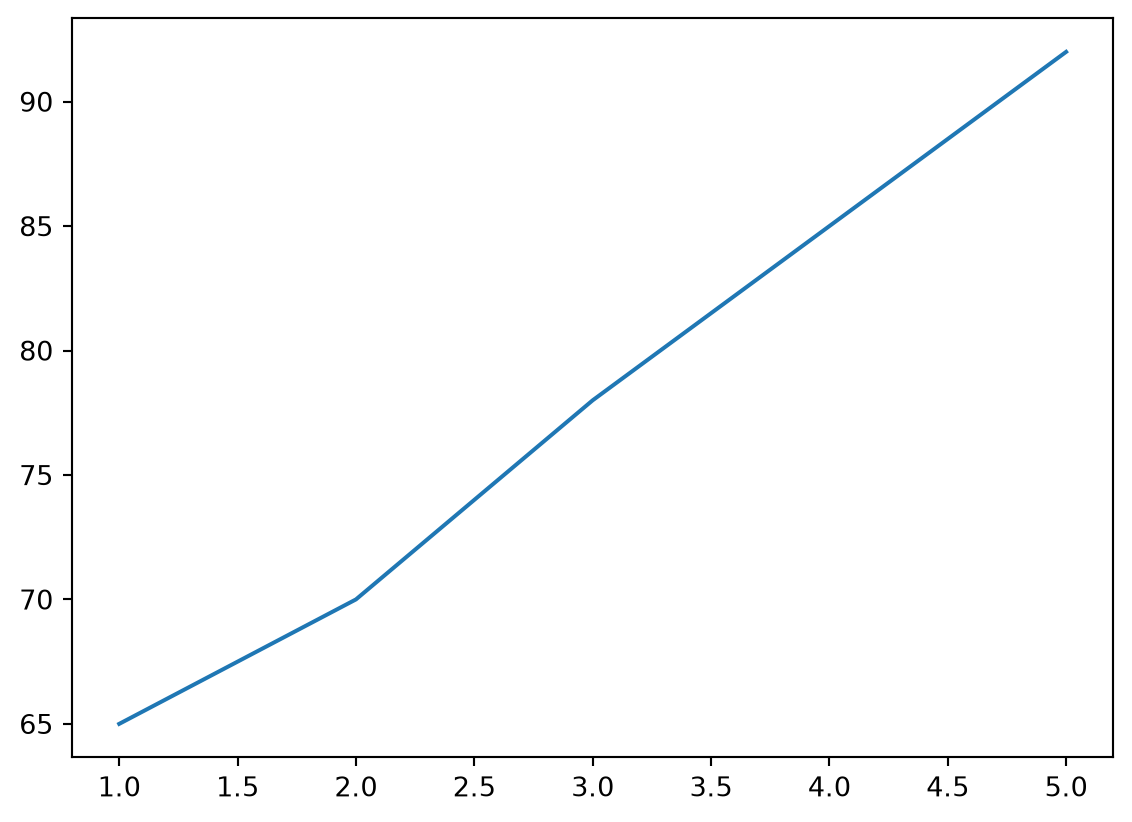
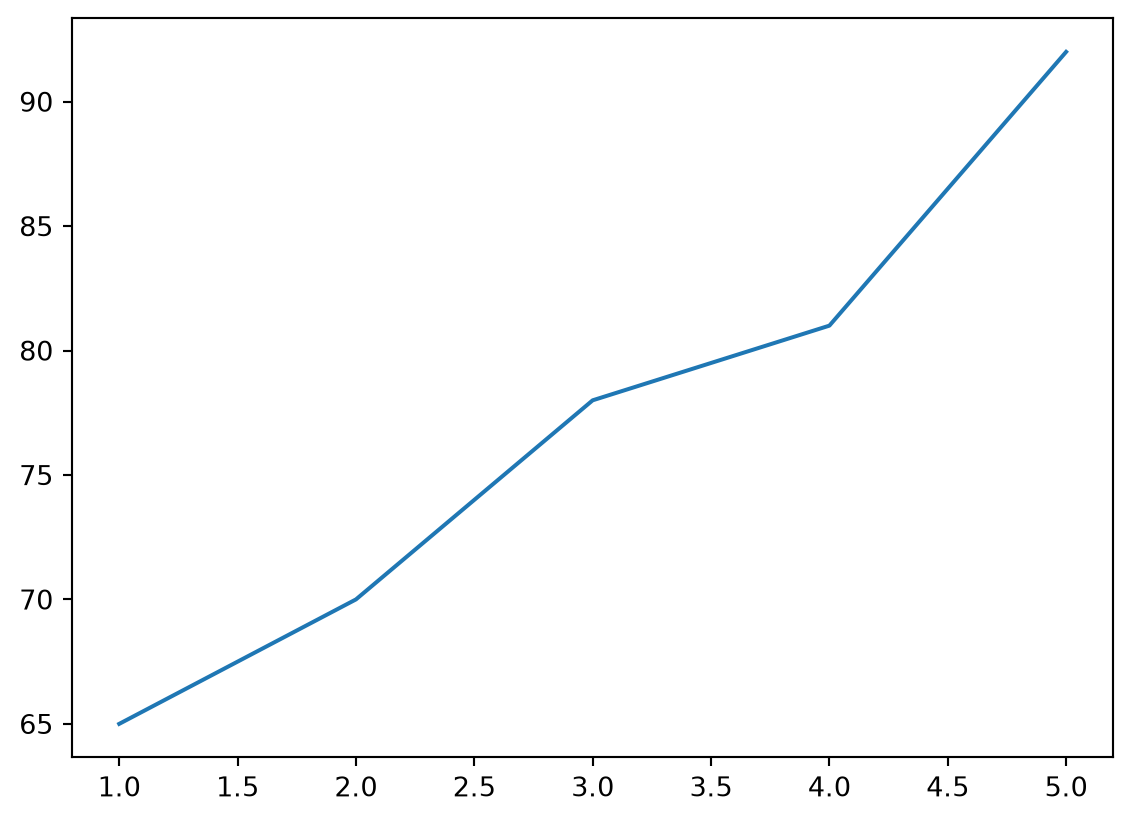
fixed errors in website set up

diff --git a/docs/posts/matplotlib-tutorial.html b/docs/posts/matplotlib-tutorial.html
@@ -213,12 +213,12 @@ pre > code.sourceCode > span > a:first-child::before { text-decoration: underlin
 <li>Customize the appearance of the plot.</li>
 <li>Display the figure using plt.show().</li>
 </ol>
-<div id="1706c89c" class="cell" data-execution_count="1">
+<div id="cedb077f" class="cell" data-execution_count="1">
 <div class="code-copy-outer-scaffold"><div class="sourceCode cell-code" id="cb1"><pre class="sourceCode python code-with-copy"><code class="sourceCode python"><span id="cb1-1"><a href="#cb1-1" aria-hidden="true" tabindex="-1"></a><span class="im">import</span> matplotlib.pyplot <span class="im">as</span> plt</span>
 <span id="cb1-2"><a href="#cb1-2" aria-hidden="true" tabindex="-1"></a></span>
 <span id="cb1-3"><a href="#cb1-3" aria-hidden="true" tabindex="-1"></a><span class="co"># Example data: hours studied and quiz scores</span></span>
 <span id="cb1-4"><a href="#cb1-4" aria-hidden="true" tabindex="-1"></a>hours <span class="op">=</span> [<span class="dv">1</span>, <span class="dv">2</span>, <span class="dv">3</span>, <span class="dv">4</span>, <span class="dv">5</span>]</span>
-<span id="cb1-5"><a href="#cb1-5" aria-hidden="true" tabindex="-1"></a>scores <span class="op">=</span> [<span class="dv">65</span>, <span class="dv">70</span>, <span class="dv">78</span>, <span class="dv">85</span>, <span class="dv">92</span>]</span>
+<span id="cb1-5"><a href="#cb1-5" aria-hidden="true" tabindex="-1"></a>scores <span class="op">=</span> [<span class="dv">65</span>, <span class="dv">70</span>, <span class="dv">78</span>, <span class="dv">81</span>, <span class="dv">92</span>]</span>
 <span id="cb1-6"><a href="#cb1-6" aria-hidden="true" tabindex="-1"></a></span>
 <span id="cb1-7"><a href="#cb1-7" aria-hidden="true" tabindex="-1"></a><span class="co"># Create a basic line plot</span></span>
 <span id="cb1-8"><a href="#cb1-8" aria-hidden="true" tabindex="-1"></a>plt.plot(hours, scores)</span>
@@ -258,7 +258,7 @@ pre > code.sourceCode > span > a:first-child::before { text-decoration: underlin
 <li>Heatmaps (often created with Matplotlib alongside NumPy)</li>
 </ul>
 <p>The best plot depends on the question you are trying to answer and the data you have available.</p>
-<div id="c6b7c3c4" class="cell" data-execution_count="2">
+<div id="27dd8f62" class="cell" data-execution_count="2">
 <div class="code-copy-outer-scaffold"><div class="sourceCode cell-code" id="cb2"><pre class="sourceCode python code-with-copy"><code class="sourceCode python"><span id="cb2-1"><a href="#cb2-1" aria-hidden="true" tabindex="-1"></a><span class="im">import</span> matplotlib.pyplot <span class="im">as</span> plt</span>
 <span id="cb2-2"><a href="#cb2-2" aria-hidden="true" tabindex="-1"></a></span>
 <span id="cb2-3"><a href="#cb2-3" aria-hidden="true" tabindex="-1"></a><span class="co"># -------------------------</span></span>
@@ -267,48 +267,14 @@ pre > code.sourceCode > span > a:first-child::before { text-decoration: underlin
 <span id="cb2-6"><a href="#cb2-6" aria-hidden="true" tabindex="-1"></a><span class="co"># Use a scatter plot when you want to see the relationship</span></span>
 <span id="cb2-7"><a href="#cb2-7" aria-hidden="true" tabindex="-1"></a><span class="co"># between two numerical variables.</span></span>
 <span id="cb2-8"><a href="#cb2-8" aria-hidden="true" tabindex="-1"></a></span>
-<span id="cb2-9"><a href="#cb2-9" aria-hidden="true" tabindex="-1"></a>study_hours <span class="op">=</span> [<span class="dv">1</span>, <span class="dv">2</span>, <span class="dv">3</span>, <span class="dv">4</span>, <span class="dv">5</span>, <span class="dv">6</span>, <span class="dv">7</span>]</span>
-<span id="cb2-10"><a href="#cb2-10" aria-hidden="true" tabindex="-1"></a>exam_scores <span class="op">=</span> [<span class="dv">62</span>, <span class="dv">68</span>, <span class="dv">74</span>, <span class="dv">80</span>, <span class="dv">85</span>, <span class="dv">89</span>, <span class="dv">94</span>]</span>
+<span id="cb2-9"><a href="#cb2-9" aria-hidden="true" tabindex="-1"></a>study_hours <span class="op">=</span> [<span class="dv">1</span>, <span class="dv">1</span>, <span class="dv">2</span>, <span class="dv">2</span>, <span class="dv">2</span>, <span class="dv">3</span>, <span class="dv">4</span>, <span class="dv">4</span>, <span class="dv">5</span>, <span class="dv">6</span>, <span class="dv">7</span>]</span>
+<span id="cb2-10"><a href="#cb2-10" aria-hidden="true" tabindex="-1"></a>exam_scores <span class="op">=</span> [<span class="dv">62</span>, <span class="dv">70</span>, <span class="dv">68</span>, <span class="dv">74</span>, <span class="dv">84</span>, <span class="dv">80</span>, <span class="dv">85</span>, <span class="dv">89</span>, <span class="dv">79</span>, <span class="dv">94</span>, <span class="dv">91</span>]</span>
 <span id="cb2-11"><a href="#cb2-11" aria-hidden="true" tabindex="-1"></a></span>
 <span id="cb2-12"><a href="#cb2-12" aria-hidden="true" tabindex="-1"></a>plt.scatter(study_hours, exam_scores)</span>
 <span id="cb2-13"><a href="#cb2-13" aria-hidden="true" tabindex="-1"></a>plt.title(<span class="st">"Study Hours vs. Exam Scores"</span>)</span>
 <span id="cb2-14"><a href="#cb2-14" aria-hidden="true" tabindex="-1"></a>plt.xlabel(<span class="st">"Hours Studied"</span>)</span>
 <span id="cb2-15"><a href="#cb2-15" aria-hidden="true" tabindex="-1"></a>plt.ylabel(<span class="st">"Exam Score"</span>)</span>
-<span id="cb2-16"><a href="#cb2-16" aria-hidden="true" tabindex="-1"></a>plt.show()</span>
-<span id="cb2-17"><a href="#cb2-17" aria-hidden="true" tabindex="-1"></a></span>
-<span id="cb2-18"><a href="#cb2-18" aria-hidden="true" tabindex="-1"></a></span>
-<span id="cb2-19"><a href="#cb2-19" aria-hidden="true" tabindex="-1"></a><span class="co"># -------------------------</span></span>
-<span id="cb2-20"><a href="#cb2-20" aria-hidden="true" tabindex="-1"></a><span class="co"># Bar Chart</span></span>
-<span id="cb2-21"><a href="#cb2-21" aria-hidden="true" tabindex="-1"></a><span class="co"># -------------------------</span></span>
-<span id="cb2-22"><a href="#cb2-22" aria-hidden="true" tabindex="-1"></a><span class="co"># Use a bar chart when comparing categories.</span></span>
-<span id="cb2-23"><a href="#cb2-23" aria-hidden="true" tabindex="-1"></a></span>
-<span id="cb2-24"><a href="#cb2-24" aria-hidden="true" tabindex="-1"></a>majors <span class="op">=</span> [<span class="st">"Statistics"</span>, <span class="st">"CS"</span>, <span class="st">"Math"</span>, <span class="st">"Biology"</span>]</span>
-<span id="cb2-25"><a href="#cb2-25" aria-hidden="true" tabindex="-1"></a>students <span class="op">=</span> [<span class="dv">45</span>, <span class="dv">62</span>, <span class="dv">28</span>, <span class="dv">35</span>]</span>
-<span id="cb2-26"><a href="#cb2-26" aria-hidden="true" tabindex="-1"></a></span>
-<span id="cb2-27"><a href="#cb2-27" aria-hidden="true" tabindex="-1"></a>plt.bar(majors, students)</span>
-<span id="cb2-28"><a href="#cb2-28" aria-hidden="true" tabindex="-1"></a>plt.title(<span class="st">"Students by Major"</span>)</span>
-<span id="cb2-29"><a href="#cb2-29" aria-hidden="true" tabindex="-1"></a>plt.xlabel(<span class="st">"Major"</span>)</span>
-<span id="cb2-30"><a href="#cb2-30" aria-hidden="true" tabindex="-1"></a>plt.ylabel(<span class="st">"Number of Students"</span>)</span>
-<span id="cb2-31"><a href="#cb2-31" aria-hidden="true" tabindex="-1"></a>plt.show()</span>
-<span id="cb2-32"><a href="#cb2-32" aria-hidden="true" tabindex="-1"></a></span>
-<span id="cb2-33"><a href="#cb2-33" aria-hidden="true" tabindex="-1"></a></span>
-<span id="cb2-34"><a href="#cb2-34" aria-hidden="true" tabindex="-1"></a><span class="co"># -------------------------</span></span>
-<span id="cb2-35"><a href="#cb2-35" aria-hidden="true" tabindex="-1"></a><span class="co"># Histogram</span></span>
-<span id="cb2-36"><a href="#cb2-36" aria-hidden="true" tabindex="-1"></a><span class="co"># -------------------------</span></span>
-<span id="cb2-37"><a href="#cb2-37" aria-hidden="true" tabindex="-1"></a><span class="co"># Use a histogram when examining the distribution</span></span>
-<span id="cb2-38"><a href="#cb2-38" aria-hidden="true" tabindex="-1"></a><span class="co"># of a single numerical variable.</span></span>
-<span id="cb2-39"><a href="#cb2-39" aria-hidden="true" tabindex="-1"></a></span>
-<span id="cb2-40"><a href="#cb2-40" aria-hidden="true" tabindex="-1"></a>test_scores <span class="op">=</span> [</span>
-<span id="cb2-41"><a href="#cb2-41" aria-hidden="true" tabindex="-1"></a>    <span class="dv">65</span>, <span class="dv">67</span>, <span class="dv">68</span>, <span class="dv">70</span>, <span class="dv">72</span>, <span class="dv">73</span>, <span class="dv">74</span>, <span class="dv">75</span>,</span>
-<span id="cb2-42"><a href="#cb2-42" aria-hidden="true" tabindex="-1"></a>    <span class="dv">77</span>, <span class="dv">78</span>, <span class="dv">80</span>, <span class="dv">81</span>, <span class="dv">83</span>, <span class="dv">85</span>, <span class="dv">87</span>, <span class="dv">90</span>,</span>
-<span id="cb2-43"><a href="#cb2-43" aria-hidden="true" tabindex="-1"></a>    <span class="dv">91</span>, <span class="dv">93</span>, <span class="dv">95</span>, <span class="dv">98</span></span>
-<span id="cb2-44"><a href="#cb2-44" aria-hidden="true" tabindex="-1"></a>]</span>
-<span id="cb2-45"><a href="#cb2-45" aria-hidden="true" tabindex="-1"></a></span>
-<span id="cb2-46"><a href="#cb2-46" aria-hidden="true" tabindex="-1"></a>plt.hist(test_scores, bins<span class="op">=</span><span class="dv">5</span>)</span>
-<span id="cb2-47"><a href="#cb2-47" aria-hidden="true" tabindex="-1"></a>plt.title(<span class="st">"Distribution of Test Scores"</span>)</span>
-<span id="cb2-48"><a href="#cb2-48" aria-hidden="true" tabindex="-1"></a>plt.xlabel(<span class="st">"Score"</span>)</span>
-<span id="cb2-49"><a href="#cb2-49" aria-hidden="true" tabindex="-1"></a>plt.ylabel(<span class="st">"Frequency"</span>)</span>
-<span id="cb2-50"><a href="#cb2-50" aria-hidden="true" tabindex="-1"></a>plt.show()</span></code></pre></div><button title="Copy to Clipboard" class="code-copy-button"><i class="bi"></i></button></div>
+<span id="cb2-16"><a href="#cb2-16" aria-hidden="true" tabindex="-1"></a>plt.show()</span></code></pre></div><button title="Copy to Clipboard" class="code-copy-button"><i class="bi"></i></button></div>
 <div class="cell-output cell-output-display">
 <div>
 <figure class="figure">
@@ -316,17 +282,51 @@ pre > code.sourceCode > span > a:first-child::before { text-decoration: underlin
 </figure>
 </div>
 </div>
+</div>
+<div id="4b548980" class="cell" data-execution_count="3">
+<div class="code-copy-outer-scaffold"><div class="sourceCode cell-code" id="cb3"><pre class="sourceCode python code-with-copy"><code class="sourceCode python"><span id="cb3-1"><a href="#cb3-1" aria-hidden="true" tabindex="-1"></a><span class="co"># -------------------------</span></span>
+<span id="cb3-2"><a href="#cb3-2" aria-hidden="true" tabindex="-1"></a><span class="co"># Bar Chart</span></span>
+<span id="cb3-3"><a href="#cb3-3" aria-hidden="true" tabindex="-1"></a><span class="co"># -------------------------</span></span>
+<span id="cb3-4"><a href="#cb3-4" aria-hidden="true" tabindex="-1"></a><span class="co"># Use a bar chart when comparing categories.</span></span>
+<span id="cb3-5"><a href="#cb3-5" aria-hidden="true" tabindex="-1"></a></span>
+<span id="cb3-6"><a href="#cb3-6" aria-hidden="true" tabindex="-1"></a>majors <span class="op">=</span> [<span class="st">"Statistics"</span>, <span class="st">"CS"</span>, <span class="st">"Math"</span>, <span class="st">"Biology"</span>]</span>
+<span id="cb3-7"><a href="#cb3-7" aria-hidden="true" tabindex="-1"></a>students <span class="op">=</span> [<span class="dv">45</span>, <span class="dv">62</span>, <span class="dv">28</span>, <span class="dv">35</span>]</span>
+<span id="cb3-8"><a href="#cb3-8" aria-hidden="true" tabindex="-1"></a></span>
+<span id="cb3-9"><a href="#cb3-9" aria-hidden="true" tabindex="-1"></a>plt.bar(majors, students)</span>
+<span id="cb3-10"><a href="#cb3-10" aria-hidden="true" tabindex="-1"></a>plt.title(<span class="st">"Students by Major"</span>)</span>
+<span id="cb3-11"><a href="#cb3-11" aria-hidden="true" tabindex="-1"></a>plt.xlabel(<span class="st">"Major"</span>)</span>
+<span id="cb3-12"><a href="#cb3-12" aria-hidden="true" tabindex="-1"></a>plt.ylabel(<span class="st">"Number of Students"</span>)</span>
+<span id="cb3-13"><a href="#cb3-13" aria-hidden="true" tabindex="-1"></a>plt.show()</span></code></pre></div><button title="Copy to Clipboard" class="code-copy-button"><i class="bi"></i></button></div>
 <div class="cell-output cell-output-display">
 <div>
 <figure class="figure">
-<p><img src="matplotlib-tutorial_files/figure-html/cell-3-output-2.png" width="585" height="451" class="figure-img"></p>
+<p><img src="matplotlib-tutorial_files/figure-html/cell-4-output-1.png" width="585" height="451" class="figure-img"></p>
 </figure>
 </div>
 </div>
+</div>
+<div id="b02e010e" class="cell" data-execution_count="4">
+<div class="code-copy-outer-scaffold"><div class="sourceCode cell-code" id="cb4"><pre class="sourceCode python code-with-copy"><code class="sourceCode python"><span id="cb4-1"><a href="#cb4-1" aria-hidden="true" tabindex="-1"></a><span class="co"># -------------------------</span></span>
+<span id="cb4-2"><a href="#cb4-2" aria-hidden="true" tabindex="-1"></a><span class="co"># Histogram</span></span>
+<span id="cb4-3"><a href="#cb4-3" aria-hidden="true" tabindex="-1"></a><span class="co"># -------------------------</span></span>
+<span id="cb4-4"><a href="#cb4-4" aria-hidden="true" tabindex="-1"></a><span class="co"># Use a histogram when examining the distribution</span></span>
+<span id="cb4-5"><a href="#cb4-5" aria-hidden="true" tabindex="-1"></a><span class="co"># of a single numerical variable.</span></span>
+<span id="cb4-6"><a href="#cb4-6" aria-hidden="true" tabindex="-1"></a></span>
+<span id="cb4-7"><a href="#cb4-7" aria-hidden="true" tabindex="-1"></a>test_scores <span class="op">=</span> [</span>
+<span id="cb4-8"><a href="#cb4-8" aria-hidden="true" tabindex="-1"></a>    <span class="dv">65</span>, <span class="dv">67</span>, <span class="dv">68</span>, <span class="dv">70</span>, <span class="dv">72</span>, <span class="dv">73</span>, <span class="dv">74</span>, <span class="dv">75</span>,</span>
+<span id="cb4-9"><a href="#cb4-9" aria-hidden="true" tabindex="-1"></a>    <span class="dv">77</span>, <span class="dv">78</span>, <span class="dv">80</span>, <span class="dv">81</span>, <span class="dv">83</span>, <span class="dv">85</span>, <span class="dv">87</span>, <span class="dv">90</span>,</span>
+<span id="cb4-10"><a href="#cb4-10" aria-hidden="true" tabindex="-1"></a>    <span class="dv">91</span>, <span class="dv">93</span>, <span class="dv">95</span>, <span class="dv">98</span></span>
+<span id="cb4-11"><a href="#cb4-11" aria-hidden="true" tabindex="-1"></a>]</span>
+<span id="cb4-12"><a href="#cb4-12" aria-hidden="true" tabindex="-1"></a></span>
+<span id="cb4-13"><a href="#cb4-13" aria-hidden="true" tabindex="-1"></a>plt.hist(test_scores, bins<span class="op">=</span><span class="dv">5</span>)</span>
+<span id="cb4-14"><a href="#cb4-14" aria-hidden="true" tabindex="-1"></a>plt.title(<span class="st">"Distribution of Test Scores"</span>)</span>
+<span id="cb4-15"><a href="#cb4-15" aria-hidden="true" tabindex="-1"></a>plt.xlabel(<span class="st">"Score"</span>)</span>
+<span id="cb4-16"><a href="#cb4-16" aria-hidden="true" tabindex="-1"></a>plt.ylabel(<span class="st">"Frequency"</span>)</span>
+<span id="cb4-17"><a href="#cb4-17" aria-hidden="true" tabindex="-1"></a>plt.show()</span></code></pre></div><button title="Copy to Clipboard" class="code-copy-button"><i class="bi"></i></button></div>
 <div class="cell-output cell-output-display">
 <div>
 <figure class="figure">
-<p><img src="matplotlib-tutorial_files/figure-html/cell-3-output-3.png" width="577" height="450" class="figure-img"></p>
+<p><img src="matplotlib-tutorial_files/figure-html/cell-5-output-1.png" width="577" height="450" class="figure-img"></p>
 </figure>
 </div>
 </div>
@@ -337,36 +337,36 @@ pre > code.sourceCode > span > a:first-child::before { text-decoration: underlin
 <p>Even the most informative graph can be confusing without proper labels. To communicate your findings clearly, every plot should include descriptive titles and axis labels.</p>
 <p>A good title explains the overall purpose of the visualization. Axis labels identify which variables are being displayed and their units when appropriate. If multiple datasets are shown on the same graph, a legend should be included so readers can easily distinguish between them.</p>
 <p>Clear labeling makes visualizations more professional and ensures that others can correctly interpret your results.</p>
-<div id="2914b5cb" class="cell" data-execution_count="3">
-<div class="code-copy-outer-scaffold"><div class="sourceCode cell-code" id="cb3"><pre class="sourceCode python code-with-copy"><code class="sourceCode python"><span id="cb3-1"><a href="#cb3-1" aria-hidden="true" tabindex="-1"></a><span class="im">import</span> matplotlib.pyplot <span class="im">as</span> plt</span>
-<span id="cb3-2"><a href="#cb3-2" aria-hidden="true" tabindex="-1"></a></span>
-<span id="cb3-3"><a href="#cb3-3" aria-hidden="true" tabindex="-1"></a><span class="co"># Monthly sales data</span></span>
-<span id="cb3-4"><a href="#cb3-4" aria-hidden="true" tabindex="-1"></a>months <span class="op">=</span> [<span class="st">"Jan"</span>, <span class="st">"Feb"</span>, <span class="st">"Mar"</span>, <span class="st">"Apr"</span>, <span class="st">"May"</span>]</span>
-<span id="cb3-5"><a href="#cb3-5" aria-hidden="true" tabindex="-1"></a>sales_2024 <span class="op">=</span> [<span class="dv">1200</span>, <span class="dv">1500</span>, <span class="dv">1700</span>, <span class="dv">1600</span>, <span class="dv">1900</span>]</span>
-<span id="cb3-6"><a href="#cb3-6" aria-hidden="true" tabindex="-1"></a>sales_2025 <span class="op">=</span> [<span class="dv">1300</span>, <span class="dv">1650</span>, <span class="dv">1800</span>, <span class="dv">1750</span>, <span class="dv">2050</span>]</span>
-<span id="cb3-7"><a href="#cb3-7" aria-hidden="true" tabindex="-1"></a></span>
-<span id="cb3-8"><a href="#cb3-8" aria-hidden="true" tabindex="-1"></a><span class="co"># Plot two lines</span></span>
-<span id="cb3-9"><a href="#cb3-9" aria-hidden="true" tabindex="-1"></a>plt.plot(months, sales_2024, label<span class="op">=</span><span class="st">"2024"</span>)</span>
-<span id="cb3-10"><a href="#cb3-10" aria-hidden="true" tabindex="-1"></a>plt.plot(months, sales_2025, label<span class="op">=</span><span class="st">"2025"</span>)</span>
-<span id="cb3-11"><a href="#cb3-11" aria-hidden="true" tabindex="-1"></a></span>
-<span id="cb3-12"><a href="#cb3-12" aria-hidden="true" tabindex="-1"></a><span class="co"># Add a descriptive title</span></span>
-<span id="cb3-13"><a href="#cb3-13" aria-hidden="true" tabindex="-1"></a>plt.title(<span class="st">"Monthly Sales Comparison"</span>)</span>
-<span id="cb3-14"><a href="#cb3-14" aria-hidden="true" tabindex="-1"></a></span>
-<span id="cb3-15"><a href="#cb3-15" aria-hidden="true" tabindex="-1"></a><span class="co"># Label the x-axis</span></span>
-<span id="cb3-16"><a href="#cb3-16" aria-hidden="true" tabindex="-1"></a>plt.xlabel(<span class="st">"Month"</span>)</span>
-<span id="cb3-17"><a href="#cb3-17" aria-hidden="true" tabindex="-1"></a></span>
-<span id="cb3-18"><a href="#cb3-18" aria-hidden="true" tabindex="-1"></a><span class="co"># Label the y-axis</span></span>
-<span id="cb3-19"><a href="#cb3-19" aria-hidden="true" tabindex="-1"></a>plt.ylabel(<span class="st">"Sales ($)"</span>)</span>
-<span id="cb3-20"><a href="#cb3-20" aria-hidden="true" tabindex="-1"></a></span>
-<span id="cb3-21"><a href="#cb3-21" aria-hidden="true" tabindex="-1"></a><span class="co"># Add a legend so readers know which line is which</span></span>
-<span id="cb3-22"><a href="#cb3-22" aria-hidden="true" tabindex="-1"></a>plt.legend()</span>
-<span id="cb3-23"><a href="#cb3-23" aria-hidden="true" tabindex="-1"></a></span>
-<span id="cb3-24"><a href="#cb3-24" aria-hidden="true" tabindex="-1"></a><span class="co"># Display the figure</span></span>
-<span id="cb3-25"><a href="#cb3-25" aria-hidden="true" tabindex="-1"></a>plt.show()</span></code></pre></div><button title="Copy to Clipboard" class="code-copy-button"><i class="bi"></i></button></div>
+<div id="cdd43231" class="cell" data-execution_count="5">
+<div class="code-copy-outer-scaffold"><div class="sourceCode cell-code" id="cb5"><pre class="sourceCode python code-with-copy"><code class="sourceCode python"><span id="cb5-1"><a href="#cb5-1" aria-hidden="true" tabindex="-1"></a><span class="im">import</span> matplotlib.pyplot <span class="im">as</span> plt</span>
+<span id="cb5-2"><a href="#cb5-2" aria-hidden="true" tabindex="-1"></a></span>
+<span id="cb5-3"><a href="#cb5-3" aria-hidden="true" tabindex="-1"></a><span class="co"># Monthly sales data</span></span>
+<span id="cb5-4"><a href="#cb5-4" aria-hidden="true" tabindex="-1"></a>months <span class="op">=</span> [<span class="st">"Jan"</span>, <span class="st">"Feb"</span>, <span class="st">"Mar"</span>, <span class="st">"Apr"</span>, <span class="st">"May"</span>]</span>
+<span id="cb5-5"><a href="#cb5-5" aria-hidden="true" tabindex="-1"></a>sales_2024 <span class="op">=</span> [<span class="dv">1200</span>, <span class="dv">1500</span>, <span class="dv">1700</span>, <span class="dv">1600</span>, <span class="dv">1900</span>]</span>
+<span id="cb5-6"><a href="#cb5-6" aria-hidden="true" tabindex="-1"></a>sales_2025 <span class="op">=</span> [<span class="dv">1300</span>, <span class="dv">1650</span>, <span class="dv">1800</span>, <span class="dv">1750</span>, <span class="dv">2050</span>]</span>
+<span id="cb5-7"><a href="#cb5-7" aria-hidden="true" tabindex="-1"></a></span>
+<span id="cb5-8"><a href="#cb5-8" aria-hidden="true" tabindex="-1"></a><span class="co"># Plot two lines</span></span>
+<span id="cb5-9"><a href="#cb5-9" aria-hidden="true" tabindex="-1"></a>plt.plot(months, sales_2024, label<span class="op">=</span><span class="st">"2024"</span>)</span>
+<span id="cb5-10"><a href="#cb5-10" aria-hidden="true" tabindex="-1"></a>plt.plot(months, sales_2025, label<span class="op">=</span><span class="st">"2025"</span>)</span>
+<span id="cb5-11"><a href="#cb5-11" aria-hidden="true" tabindex="-1"></a></span>
+<span id="cb5-12"><a href="#cb5-12" aria-hidden="true" tabindex="-1"></a><span class="co"># Add a descriptive title</span></span>
+<span id="cb5-13"><a href="#cb5-13" aria-hidden="true" tabindex="-1"></a>plt.title(<span class="st">"Monthly Sales Comparison"</span>)</span>
+<span id="cb5-14"><a href="#cb5-14" aria-hidden="true" tabindex="-1"></a></span>
+<span id="cb5-15"><a href="#cb5-15" aria-hidden="true" tabindex="-1"></a><span class="co"># Label the x-axis</span></span>
+<span id="cb5-16"><a href="#cb5-16" aria-hidden="true" tabindex="-1"></a>plt.xlabel(<span class="st">"Month"</span>)</span>
+<span id="cb5-17"><a href="#cb5-17" aria-hidden="true" tabindex="-1"></a></span>
+<span id="cb5-18"><a href="#cb5-18" aria-hidden="true" tabindex="-1"></a><span class="co"># Label the y-axis</span></span>
+<span id="cb5-19"><a href="#cb5-19" aria-hidden="true" tabindex="-1"></a>plt.ylabel(<span class="st">"Sales ($)"</span>)</span>
+<span id="cb5-20"><a href="#cb5-20" aria-hidden="true" tabindex="-1"></a></span>
+<span id="cb5-21"><a href="#cb5-21" aria-hidden="true" tabindex="-1"></a><span class="co"># Add a legend so readers know which line is which</span></span>
+<span id="cb5-22"><a href="#cb5-22" aria-hidden="true" tabindex="-1"></a>plt.legend()</span>
+<span id="cb5-23"><a href="#cb5-23" aria-hidden="true" tabindex="-1"></a></span>
+<span id="cb5-24"><a href="#cb5-24" aria-hidden="true" tabindex="-1"></a><span class="co"># Display the figure</span></span>
+<span id="cb5-25"><a href="#cb5-25" aria-hidden="true" tabindex="-1"></a>plt.show()</span></code></pre></div><button title="Copy to Clipboard" class="code-copy-button"><i class="bi"></i></button></div>
 <div class="cell-output cell-output-display">
 <div>
 <figure class="figure">
-<p><img src="matplotlib-tutorial_files/figure-html/cell-4-output-1.png" width="602" height="451" class="figure-img"></p>
+<p><img src="matplotlib-tutorial_files/figure-html/cell-6-output-1.png" width="602" height="451" class="figure-img"></p>
 </figure>
 </div>
 </div>
@@ -376,40 +376,40 @@ pre > code.sourceCode > span > a:first-child::before { text-decoration: underlin
 <h2 class="anchored" data-anchor-id="changing-aesthetics">Changing Aesthetics</h2>
 <p>Matplotlib also allows you to customize the appearance of your plots. Common aesthetic adjustments include changing colors, marker styles, line thickness, and line styles.</p>
 <p>Thoughtful styling can make a visualization easier to read and more visually appealing. For example, using contrasting colors can help highlight important data, while adjusting marker sizes can make dense scatter plots easier to interpret. Consistent styling across multiple figures can also create a more professional appearance in reports and presentations.</p>
-<div id="5ef14505" class="cell" data-execution_count="4">
-<div class="code-copy-outer-scaffold"><div class="sourceCode cell-code" id="cb4"><pre class="sourceCode python code-with-copy"><code class="sourceCode python"><span id="cb4-1"><a href="#cb4-1" aria-hidden="true" tabindex="-1"></a><span class="im">import</span> matplotlib.pyplot <span class="im">as</span> plt</span>
-<span id="cb4-2"><a href="#cb4-2" aria-hidden="true" tabindex="-1"></a></span>
-<span id="cb4-3"><a href="#cb4-3" aria-hidden="true" tabindex="-1"></a><span class="co"># Example data</span></span>
-<span id="cb4-4"><a href="#cb4-4" aria-hidden="true" tabindex="-1"></a>years <span class="op">=</span> [<span class="dv">2021</span>, <span class="dv">2022</span>, <span class="dv">2023</span>, <span class="dv">2024</span>, <span class="dv">2025</span>]</span>
-<span id="cb4-5"><a href="#cb4-5" aria-hidden="true" tabindex="-1"></a>revenue <span class="op">=</span> [<span class="dv">12</span>, <span class="dv">15</span>, <span class="dv">19</span>, <span class="dv">22</span>, <span class="dv">28</span>]</span>
-<span id="cb4-6"><a href="#cb4-6" aria-hidden="true" tabindex="-1"></a></span>
-<span id="cb4-7"><a href="#cb4-7" aria-hidden="true" tabindex="-1"></a><span class="co"># Customize color, line style, marker, and line width</span></span>
-<span id="cb4-8"><a href="#cb4-8" aria-hidden="true" tabindex="-1"></a>plt.plot(</span>
-<span id="cb4-9"><a href="#cb4-9" aria-hidden="true" tabindex="-1"></a>    years,</span>
-<span id="cb4-10"><a href="#cb4-10" aria-hidden="true" tabindex="-1"></a>    revenue,</span>
-<span id="cb4-11"><a href="#cb4-11" aria-hidden="true" tabindex="-1"></a>    color<span class="op">=</span><span class="st">"darkgreen"</span>,      <span class="co"># Changes line color</span></span>
-<span id="cb4-12"><a href="#cb4-12" aria-hidden="true" tabindex="-1"></a>    linestyle<span class="op">=</span><span class="st">"--"</span>,         <span class="co"># Dashed line</span></span>
-<span id="cb4-13"><a href="#cb4-13" aria-hidden="true" tabindex="-1"></a>    marker<span class="op">=</span><span class="st">"o"</span>,             <span class="co"># Circular markers</span></span>
-<span id="cb4-14"><a href="#cb4-14" aria-hidden="true" tabindex="-1"></a>    linewidth<span class="op">=</span><span class="dv">3</span>,            <span class="co"># Thicker line</span></span>
-<span id="cb4-15"><a href="#cb4-15" aria-hidden="true" tabindex="-1"></a>    markersize<span class="op">=</span><span class="dv">8</span>,           <span class="co"># Larger markers</span></span>
-<span id="cb4-16"><a href="#cb4-16" aria-hidden="true" tabindex="-1"></a>    label<span class="op">=</span><span class="st">"Revenue"</span></span>
-<span id="cb4-17"><a href="#cb4-17" aria-hidden="true" tabindex="-1"></a>)</span>
-<span id="cb4-18"><a href="#cb4-18" aria-hidden="true" tabindex="-1"></a></span>
-<span id="cb4-19"><a href="#cb4-19" aria-hidden="true" tabindex="-1"></a><span class="co"># Add a grid to improve readability</span></span>
-<span id="cb4-20"><a href="#cb4-20" aria-hidden="true" tabindex="-1"></a>plt.grid(<span class="va">True</span>)</span>
-<span id="cb4-21"><a href="#cb4-21" aria-hidden="true" tabindex="-1"></a></span>
-<span id="cb4-22"><a href="#cb4-22" aria-hidden="true" tabindex="-1"></a><span class="co"># Add labels and title</span></span>
-<span id="cb4-23"><a href="#cb4-23" aria-hidden="true" tabindex="-1"></a>plt.title(<span class="st">"Company Revenue Growth"</span>)</span>
-<span id="cb4-24"><a href="#cb4-24" aria-hidden="true" tabindex="-1"></a>plt.xlabel(<span class="st">"Year"</span>)</span>
-<span id="cb4-25"><a href="#cb4-25" aria-hidden="true" tabindex="-1"></a>plt.ylabel(<span class="st">"Revenue (Millions of Dollars)"</span>)</span>
-<span id="cb4-26"><a href="#cb4-26" aria-hidden="true" tabindex="-1"></a>plt.legend()</span>
-<span id="cb4-27"><a href="#cb4-27" aria-hidden="true" tabindex="-1"></a></span>
-<span id="cb4-28"><a href="#cb4-28" aria-hidden="true" tabindex="-1"></a><span class="co"># Show the finished plot</span></span>
-<span id="cb4-29"><a href="#cb4-29" aria-hidden="true" tabindex="-1"></a>plt.show()</span></code></pre></div><button title="Copy to Clipboard" class="code-copy-button"><i class="bi"></i></button></div>
+<div id="0a142e0f" class="cell" data-execution_count="6">
+<div class="code-copy-outer-scaffold"><div class="sourceCode cell-code" id="cb6"><pre class="sourceCode python code-with-copy"><code class="sourceCode python"><span id="cb6-1"><a href="#cb6-1" aria-hidden="true" tabindex="-1"></a><span class="im">import</span> matplotlib.pyplot <span class="im">as</span> plt</span>
+<span id="cb6-2"><a href="#cb6-2" aria-hidden="true" tabindex="-1"></a></span>
+<span id="cb6-3"><a href="#cb6-3" aria-hidden="true" tabindex="-1"></a><span class="co"># Example data</span></span>
+<span id="cb6-4"><a href="#cb6-4" aria-hidden="true" tabindex="-1"></a>years <span class="op">=</span> [<span class="dv">2021</span>, <span class="dv">2022</span>, <span class="dv">2023</span>, <span class="dv">2024</span>, <span class="dv">2025</span>]</span>
+<span id="cb6-5"><a href="#cb6-5" aria-hidden="true" tabindex="-1"></a>revenue <span class="op">=</span> [<span class="dv">12</span>, <span class="dv">15</span>, <span class="dv">19</span>, <span class="dv">22</span>, <span class="dv">28</span>]</span>
+<span id="cb6-6"><a href="#cb6-6" aria-hidden="true" tabindex="-1"></a></span>
+<span id="cb6-7"><a href="#cb6-7" aria-hidden="true" tabindex="-1"></a><span class="co"># Customize color, line style, marker, and line width</span></span>
+<span id="cb6-8"><a href="#cb6-8" aria-hidden="true" tabindex="-1"></a>plt.plot(</span>
+<span id="cb6-9"><a href="#cb6-9" aria-hidden="true" tabindex="-1"></a>    years,</span>
+<span id="cb6-10"><a href="#cb6-10" aria-hidden="true" tabindex="-1"></a>    revenue,</span>
+<span id="cb6-11"><a href="#cb6-11" aria-hidden="true" tabindex="-1"></a>    color<span class="op">=</span><span class="st">"darkgreen"</span>,      <span class="co"># Changes line color</span></span>
+<span id="cb6-12"><a href="#cb6-12" aria-hidden="true" tabindex="-1"></a>    linestyle<span class="op">=</span><span class="st">"--"</span>,         <span class="co"># Dashed line</span></span>
+<span id="cb6-13"><a href="#cb6-13" aria-hidden="true" tabindex="-1"></a>    marker<span class="op">=</span><span class="st">"o"</span>,             <span class="co"># Circular markers</span></span>
+<span id="cb6-14"><a href="#cb6-14" aria-hidden="true" tabindex="-1"></a>    linewidth<span class="op">=</span><span class="dv">3</span>,            <span class="co"># Thicker line</span></span>
+<span id="cb6-15"><a href="#cb6-15" aria-hidden="true" tabindex="-1"></a>    markersize<span class="op">=</span><span class="dv">8</span>,           <span class="co"># Larger markers</span></span>
+<span id="cb6-16"><a href="#cb6-16" aria-hidden="true" tabindex="-1"></a>    label<span class="op">=</span><span class="st">"Revenue"</span></span>
+<span id="cb6-17"><a href="#cb6-17" aria-hidden="true" tabindex="-1"></a>)</span>
+<span id="cb6-18"><a href="#cb6-18" aria-hidden="true" tabindex="-1"></a></span>
+<span id="cb6-19"><a href="#cb6-19" aria-hidden="true" tabindex="-1"></a><span class="co"># Add a grid to improve readability</span></span>
+<span id="cb6-20"><a href="#cb6-20" aria-hidden="true" tabindex="-1"></a>plt.grid(<span class="va">True</span>)</span>
+<span id="cb6-21"><a href="#cb6-21" aria-hidden="true" tabindex="-1"></a></span>
+<span id="cb6-22"><a href="#cb6-22" aria-hidden="true" tabindex="-1"></a><span class="co"># Add labels and title</span></span>
+<span id="cb6-23"><a href="#cb6-23" aria-hidden="true" tabindex="-1"></a>plt.title(<span class="st">"Company Revenue Growth"</span>)</span>
+<span id="cb6-24"><a href="#cb6-24" aria-hidden="true" tabindex="-1"></a>plt.xlabel(<span class="st">"Year"</span>)</span>
+<span id="cb6-25"><a href="#cb6-25" aria-hidden="true" tabindex="-1"></a>plt.ylabel(<span class="st">"Revenue (Millions of Dollars)"</span>)</span>
+<span id="cb6-26"><a href="#cb6-26" aria-hidden="true" tabindex="-1"></a>plt.legend()</span>
+<span id="cb6-27"><a href="#cb6-27" aria-hidden="true" tabindex="-1"></a></span>
+<span id="cb6-28"><a href="#cb6-28" aria-hidden="true" tabindex="-1"></a><span class="co"># Show the finished plot</span></span>
+<span id="cb6-29"><a href="#cb6-29" aria-hidden="true" tabindex="-1"></a>plt.show()</span></code></pre></div><button title="Copy to Clipboard" class="code-copy-button"><i class="bi"></i></button></div>
 <div class="cell-output cell-output-display">
 <div>
 <figure class="figure">
-<p><img src="matplotlib-tutorial_files/figure-html/cell-5-output-1.png" width="585" height="450" class="figure-img"></p>
+<p><img src="matplotlib-tutorial_files/figure-html/cell-7-output-1.png" width="585" height="450" class="figure-img"></p>
 </figure>
 </div>
 </div>

diff --git a/docs/index.html b/docs/index.html
@@ -7,7 +7,7 @@
 <meta name="viewport" content="width=device-width, initial-scale=1.0, user-scalable=yes">
 
 
-<title>alliemcd.github.io</title>
+<title>Allie McDonald – alliemcd.github.io</title>
 <style>
 /* Default styles provided by pandoc.
 ** See https://pandoc.org/MANUAL.html#variables-for-html for config info.
@@ -123,7 +123,10 @@ ul.task-list li input[type="checkbox"] {
     <h2 id="toc-title">On this page</h2>
    
   <ul>
-  <li><a href="#tutorials" id="toc-tutorials" class="nav-link active" data-scroll-target="#tutorials">Tutorials</a></li>
+  <li><a href="#welcome" id="toc-welcome" class="nav-link active" data-scroll-target="#welcome">Welcome</a>
+  <ul class="collapse">
+  <li><a href="#tutorials" id="toc-tutorials" class="nav-link" data-scroll-target="#tutorials">Tutorials</a></li>
+  </ul></li>
   </ul>
 </nav>
     </div>
@@ -132,7 +135,7 @@ ul.task-list li input[type="checkbox"] {
 
 <header id="title-block-header" class="quarto-title-block default">
 <div class="quarto-title">
-<h1 class="title">alliemcd.github.io</h1>
+<h1 class="title">Allie McDonald</h1>
 </div>
 
 
@@ -149,6 +152,9 @@ ul.task-list li input[type="checkbox"] {
 </header>
 
 
+<section id="welcome" class="level1">
+<h1>Welcome</h1>
+<p>This site contains tutorials and projects created for STAT 386.</p>
 <section id="tutorials" class="level2">
 <h2 class="anchored" data-anchor-id="tutorials">Tutorials</h2>
 <ul>
@@ -156,6 +162,7 @@ ul.task-list li input[type="checkbox"] {
 </ul>
 
 
+</section>
 </section>
 
 </main> <!-- /main -->
